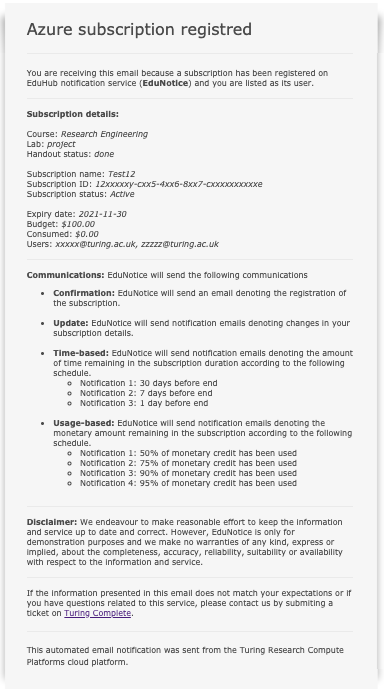
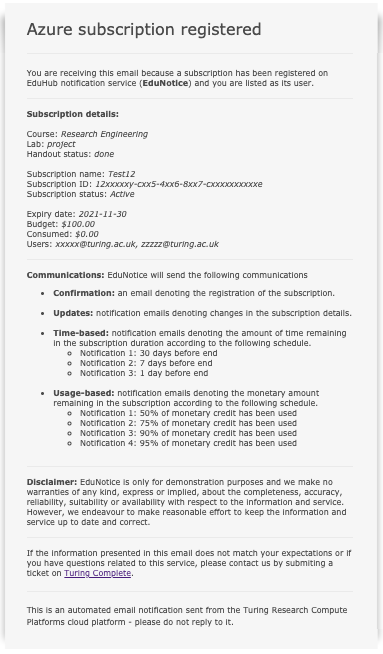
Code refactoring

diff --git a/__app__/edunotice/notifications.py b/__app__/edunotice/notifications.py
@@ -520,11 +520,11 @@ def indiv_email_new(lab_dict, sub_dict, new_sub):
         html_content - summary as an html text
     """
 
-    # Check if the subscription is cancelled
-    if new_sub.subscription_status.lower() == CONST_SUB_CANCELLED.lower():
-        html_content = email_top(CONST_EMAIL_SUBJECT_CANCELLED)
-    else:
-        html_content = email_top(CONST_EMAIL_SUBJECT_NEW)
+    # # Check if the subscription is cancelled
+    # if new_sub.subscription_status.lower() == CONST_SUB_CANCELLED.lower():
+    #     html_content = email_top(CONST_EMAIL_SUBJECT_CANCELLED)
+    # else:
+    html_content = email_top(CONST_EMAIL_SUBJECT_NEW)
 
     html_middle = '<div style="font-size:12px;line-height:16px;text-align:left">'
     html_middle += (
@@ -606,18 +606,20 @@ def indiv_email_upd(lab_dict, sub_dict, upd_sub):
         html_content - summary as an html text
     """
 
-    if upd_sub[1].subscription_status.lower() == CONST_SUB_CANCELLED.lower():
-        html_content = email_top(CONST_EMAIL_SUBJECT_CANCELLED)
-    else:
-        html_content = email_top(CONST_EMAIL_SUBJECT_UPD)
+    # if upd_sub[1].subscription_status.lower() == CONST_SUB_CANCELLED.lower():
+    #     html_content = email_top(CONST_EMAIL_SUBJECT_CANCELLED)
+    # else:
+    html_content = email_top(CONST_EMAIL_SUBJECT_UPD)
 
     html_middle = '<div style="font-size:12px;line-height:16px;text-align:left">'
     html_middle += (
-        "<div>You are receiving this email because a subscription has been updated"
+        "<div>You are receiving this email because a subscription has been "
     )
 
     if upd_sub[1].subscription_status.lower() == CONST_SUB_CANCELLED.lower():
-        html_middle += "/cancelled"
+        html_middle += "<b>cancelled</b>"
+    else:
+        html_middle += "updated"
 
     html_middle += " and you are listed as its user.</div>"
     html_middle += '<br><div style="border-bottom:1px solid #ededed"></div><br>'

diff --git a/utils/infrastructure/create_json.py b/utils/infrastructure/create_json.py
@@ -24,7 +24,14 @@ if __name__ == "__main__":
         "EC_EMAIL": os.environ["EC_EMAIL"],
         "EC_PASSWORD": os.environ["EC_PASSWORD"],
         "EC_MFA": os.environ["EC_MFA"],
+        "ENS_TEST_MODE": os.environ["ENS_TEST_MODE"],
+        "ENS_EMAIL_DISABLE": os.environ["ENS_EMAIL_DISABLE"],
+        "ENS_TEST_EMAIL_API": os.environ["ENS_TEST_EMAIL_API"],
+        "ENS_TEST_FROM_EMAIL": os.environ["ENS_TEST_FROM_EMAIL"],
+        "ENS_TEST_TO_EMAIL": os.environ["ENS_TEST_TO_EMAIL"],
+        "ENS_SQL_SERVER": os.environ["ENS_SQL_SERVER"],
         "ENS_SQL_HOST": os.environ["ENS_SQL_HOST"],
+        "ENS_SQL_USERNAME": os.environ["ENS_SQL_USERNAME"],
         "ENS_SQL_USER": os.environ["ENS_SQL_USER"],
         "ENS_SQL_PASS": os.environ["ENS_SQL_PASS"],
         "ENS_SQL_DBNAME": os.environ["ENS_SQL_DBNAME"],
@@ -36,4 +43,4 @@ if __name__ == "__main__":
     }
 
     with open(rel_file_path, 'w') as outfile:
-        json.dump(data, outfile)
+        json.dump(data, outfile, indent=4)

diff --git a/tests/test_notifications.py b/tests/test_notifications.py
@@ -95,14 +95,13 @@ def test_indiv_email_new():
     assert len(sub_update_list) == 0
 
     success, error, html_content = indiv_email_new(lab_dict, sub_dict, sub_new_list[0])
-
     assert success, error
-    assert len(html_content) == 3811
+    assert len(html_content) == 3812
+
 
     success, error, html_content = indiv_email_new(lab_dict, sub_dict, sub_new_list[1])
-
     assert success, error
-    assert len(html_content) == 4758
+    assert len(html_content) == 4759
 
 
 def test_indiv_email_update():
@@ -130,11 +129,11 @@ def test_indiv_email_update():
     )
 
     assert success, error
-    assert len(html_content) == 3451
+    assert len(html_content) == 3448
 
     success, error, html_content = indiv_email_upd(
         lab_dict, sub_dict, sub_update_list[1]
     )
 
     assert success, error
-    assert len(html_content) == 3212
+    assert len(html_content) == 3209

diff --git a/tests/test_summary.py b/tests/test_summary.py
@@ -92,7 +92,7 @@ def test_summary_new():
         ENGINE, timestamp_utc=new_summary_timestamp_utc
     )
     assert success, error
-    assert len(html_content) == 2852
+    assert len(html_content) == 2854
 
     # preps and sends out summary email
     success, error = summary_email(ENGINE, timestamp_utc=new_summary_timestamp_utc)
@@ -160,7 +160,7 @@ def test_summary_upd():
         ENGINE, timestamp_utc=new_summary_timestamp_utc
     )
     assert success, error
-    assert len(html_content) == 4074
+    assert len(html_content) == 4075
 
     # preps and sends out summary email
     success, error = summary_email(ENGINE, timestamp_utc=new_summary_timestamp_utc)

diff --git a/__app__/edunotice/constants.py b/__app__/edunotice/constants.py
@@ -75,7 +75,7 @@ if type(__email_excl) is str:
 else:
     SG_EMAIL_EXCL = None
 
-CONST_EMAIL_SUBJECT_NEW = "Azure subscription registred"
+CONST_EMAIL_SUBJECT_NEW = "Azure subscription registered"
 CONST_EMAIL_SUBJECT_UPD = "Azure subscription updated"
 CONST_EMAIL_SUBJECT_CANCELLED = "Azure subscription cancelled"
 CONST_EMAIL_SUBJECT_EXPIRE = "Azure subscription expires in"
